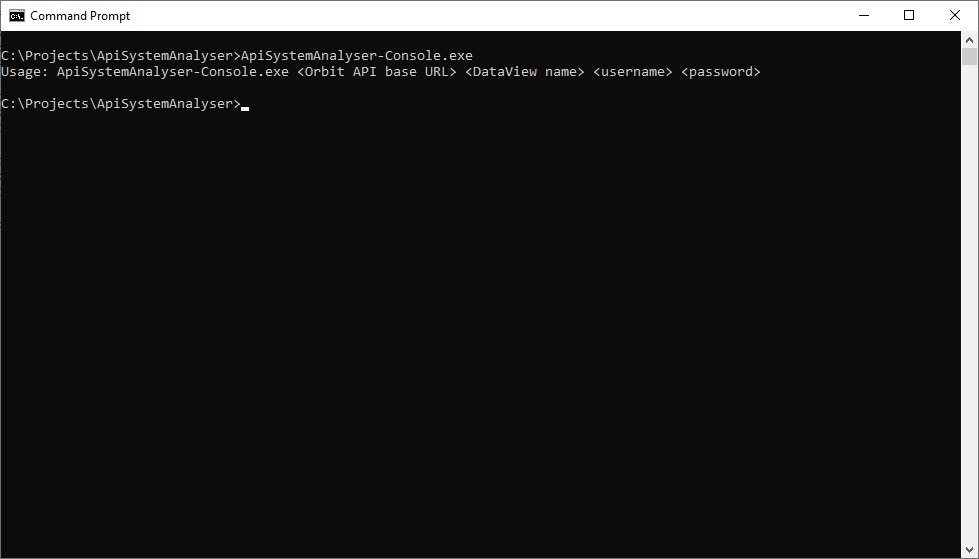
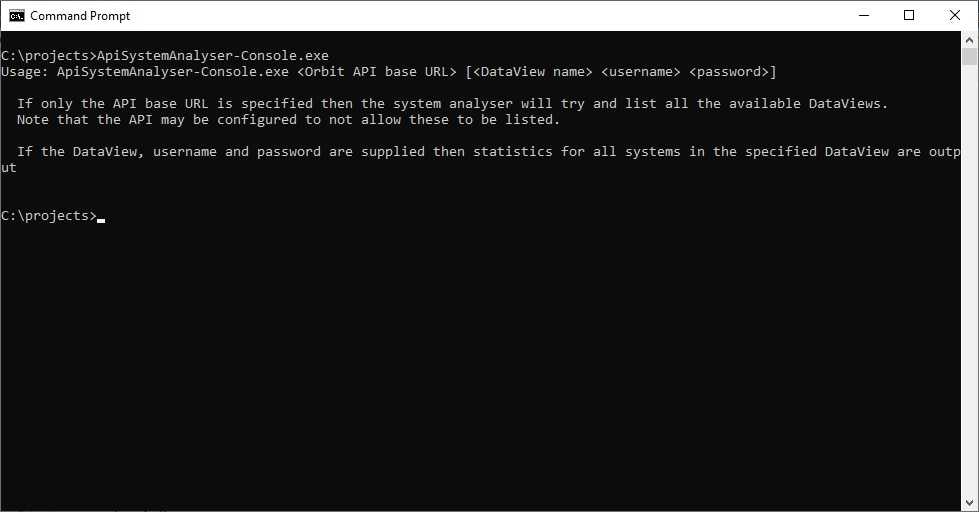
Updated the README after adding the ability to get DataViews

diff --git a/README.md b/README.md
@@ -14,17 +14,24 @@ The ApiSystemAnalyser is a sample application that connects to a Apteco FastStat
 Apteco API to demonstrate how some simple system metadata can be gathered.
 
 ### Usage
-To use the ApiSystemAnalyser download the latest release or build the software via Visual Studio or the .Net Core CLI.
+To use the ApiSystemAnalyser download the latest release from [GitHub](https://github.com/Apteco/ApiSystemAnalyser/releases)
+or build the software via Visual Studio or the .Net Core CLI (see [below](#Build)).
 
 To find out what command line parameters are required, run the console application with no parameters:
 
 ![Get Usage](Apteco.ApiSystemAnalyser.Resources/Images/Readme/ApiSystemAnalyser-Usage.jpg)
 
-Then enter the base URL of the API, the name of the DataView you want to connect to and a valid username and password:
+You will need the name of a DataView to analyse.  To find all the available DataViews configured in the API, run
+the application with just the base URL of the API specified:
+
+![Get DataViews](Apteco.ApiSystemAnalyser.Resources/Images/Readme/ApiSystemAnalyser-DataViews.jpg)
+
+To get the results for a given DataView, enter the base URL of the API, the name of the DataView you want to connect
+to and a valid username and password:
 
 ![Get Results](Apteco.ApiSystemAnalyser.Resources/Images/Readme/ApiSystemAnalyser-Results.jpg)
 
-The ApiSystemAnalyser goes through the following steps:
+To return these statistics, the ApiSystemAnalyser goes through the following steps:
 
 1. Logs in to the API at the specified URL
 2. Gets the list of systems for the specified DataView from the `/{dataViewName}/FastStatsSystems` endpoint.
@@ -34,13 +41,14 @@ The ApiSystemAnalyser goes through the following steps:
 4. Output the results to the console.
 
 ### Implementation
-To see how the ApiClient code was generated from the API's Swagger specification, look at the
-[Readme](Apteco.ApiSystemAnalyser.ApiClient/Readme.md) in the Apteco.ApiSystemAnalyser.ApiClient project.
+* To see how the ApiClient code was generated from the API's Swagger specification, look at the
+Readme in the [Apteco.ApiSystemAnalyser.ApiClient](Apteco.ApiSystemAnalyser.ApiClient) project.
 
-The Apteco.ApiSystemAnalyser.Core project contains the business logic for the application (as described above).
+* The [Apteco.ApiSystemAnalyser.Core](Apteco.ApiSystemAnalyser.Core) project contains the business logic for the
+application (as described above).
 
-The Apteco.ApiSystemAnalyser.Console project contains a console application entry point that simply gathers the
-command line parameters and starts the processing.
+* The [Apteco.ApiSystemAnalyser.Console](Apteco.ApiSystemAnalyser.Console) project contains a console application
+entry point that simply gathers the command line parameters and starts the processing.
 
 ### Build
 To build the project, either do so via Visual Studio (2017 or later) or using the dotnet CLI tool.
